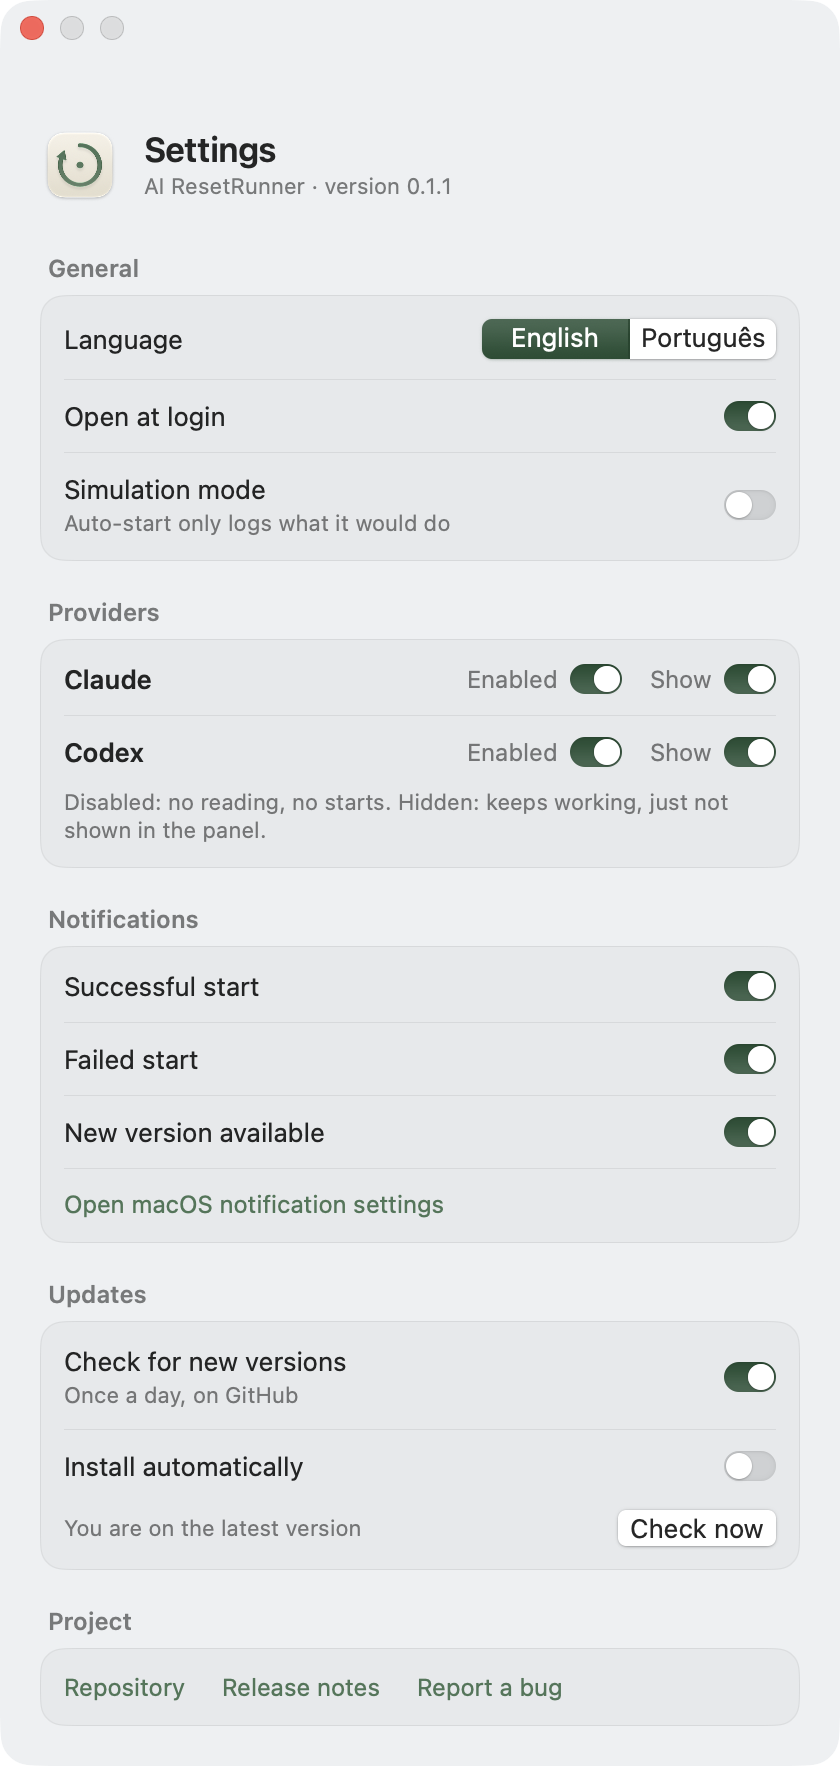
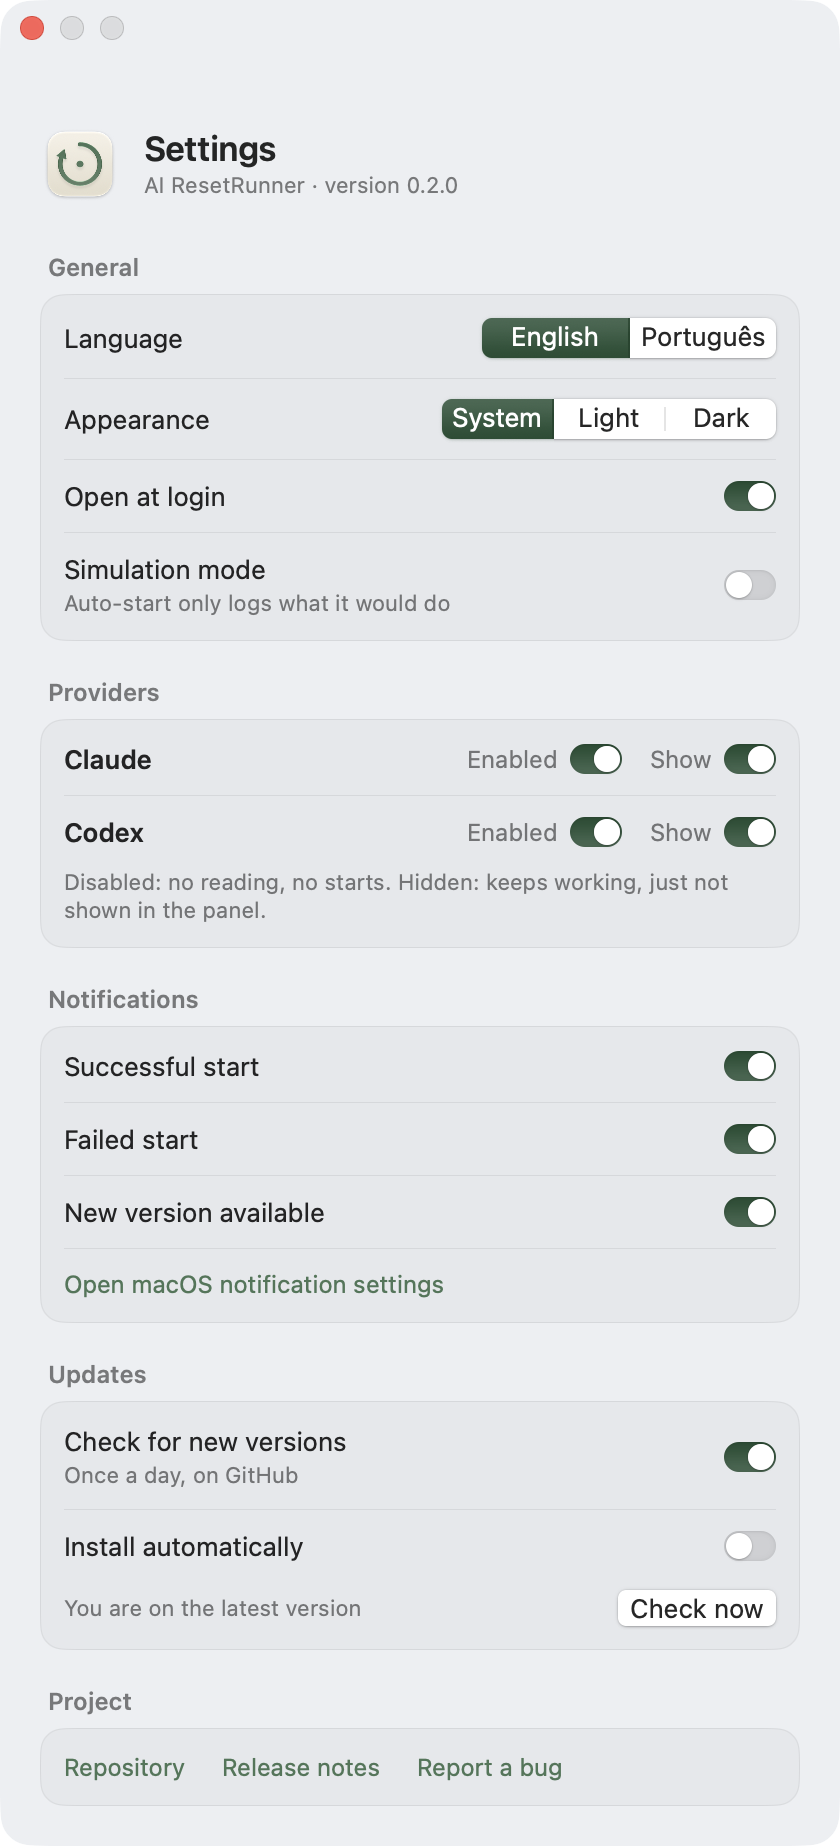
Add an appearance setting: system, light or dark
Forces the whole app, popover included, into light or dark mode regardless of
the system setting.

diff --git a/Sources/AIResetRunner/Store.swift b/Sources/AIResetRunner/Store.swift
@@ -153,12 +153,20 @@ final class Store {
             refreshAll()
         }
     }
+    /// Follow the system, or force light or dark for the whole app.
+    var appearance = Appearance(rawValue: UserDefaults.standard.string(forKey: "appearance") ?? "") ?? .system {
+        didSet {
+            UserDefaults.standard.set(appearance.rawValue, forKey: "appearance")
+            appearance.apply()
+        }
+    }
     /// Registered as a login item through SMAppService.
     var launchAtLogin = SMAppService.mainApp.status == .enabled
     var launchAtLoginError: String?
     private var timer: Timer?
 
     init() {
+        appearance.apply()
         if isAppBundle { UNUserNotificationCenter.current().requestAuthorization(options: [.alert, .sound]) { _, _ in } }
         NSWorkspace.shared.notificationCenter.addObserver(
             forName: NSWorkspace.didWakeNotification, object: nil, queue: .main
@@ -222,4 +230,25 @@ func notify(_ title: String, _ body: String, kind: NotificationKind) {
     content.title = title
     content.body = body
     UNUserNotificationCenter.current().add(UNNotificationRequest(identifier: UUID().uuidString, content: content, trigger: nil))
+}
+
+enum Appearance: String, CaseIterable {
+    case system, light, dark
+
+    var label: String {
+        switch self {
+        case .system: return L("System", "Sistema")
+        case .light: return L("Light", "Claro")
+        case .dark: return L("Dark", "Escuro")
+        }
+    }
+
+    /// Windows and the popover inherit the app appearance.
+    func apply() {
+        NSApp?.appearance = switch self {
+        case .system: nil
+        case .light: NSAppearance(named: .aqua)
+        case .dark: NSAppearance(named: .darkAqua)
+        }
+    }
 }

diff --git a/Sources/AIResetRunner/SettingsView.swift b/Sources/AIResetRunner/SettingsView.swift
@@ -28,6 +28,17 @@ struct SettingsView: View {
                     .fixedSize()
                 }
                 divider
+                HStack {
+                    Text(L("Appearance", "Aparência"))
+                    Spacer()
+                    Picker("", selection: Binding(get: { store.appearance }, set: { store.appearance = $0 })) {
+                        ForEach(Appearance.allCases, id: \.self) { Text($0.label).tag($0) }
+                    }
+                    .labelsHidden()
+                    .pickerStyle(.segmented)
+                    .fixedSize()
+                }
+                divider
                 row(L("Open at login", "Abrir ao iniciar o Mac"), get: { store.launchAtLogin }, set: store.setLaunchAtLogin)
                 if let error = store.launchAtLoginError {
                     Text(error).font(.system(size: 11)).foregroundStyle(Theme.warning)

diff --git a/Sources/AIResetRunner/App.swift b/Sources/AIResetRunner/App.swift
@@ -52,6 +52,8 @@ final class AppDelegate: NSObject, NSApplicationDelegate {
         if popover.isShown {
             popover.performClose(nil)
         } else {
+            // The popover follows the menu bar unless the app forces an appearance.
+            popover.appearance = NSApp.appearance
             popover.show(relativeTo: button.bounds, of: button, preferredEdge: .minY)
             popover.contentViewController?.view.window?.makeKey()
         }

diff --git a/README.md b/README.md
@@ -57,6 +57,7 @@ cheapest model. The window starts right away, while you are away, and it resets 
 
 - Menu bar panel with the 5-hour session and weekly limits of **Claude Code** and **Codex**.
 - **Start now** button per provider. 45 seconds later the app reads the usage again to confirm that the window really opened.
+- **Appearance**: follow the system, or keep the app always light or always dark.
 - **Auto-start** per provider (off by default): starts a window by itself when none is active.
 - **Simulation mode**: auto-start only logs what it would do.
 - **Settings**:
